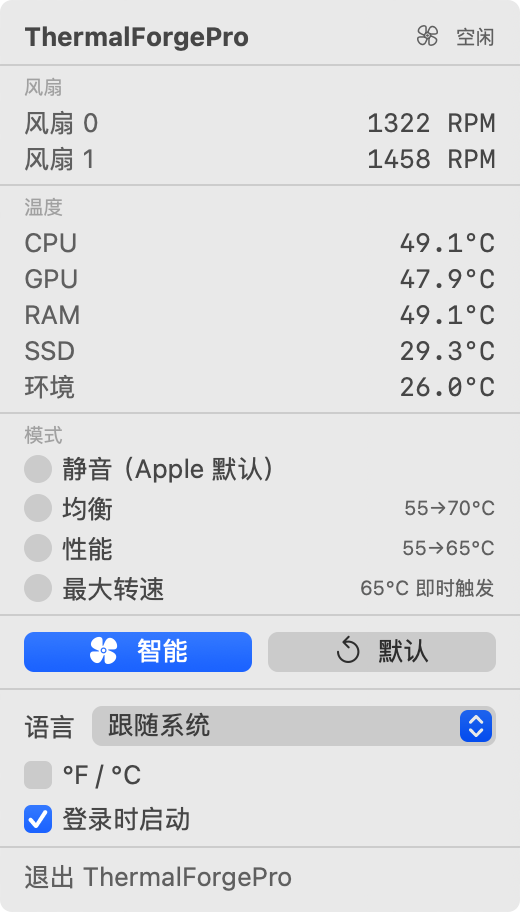
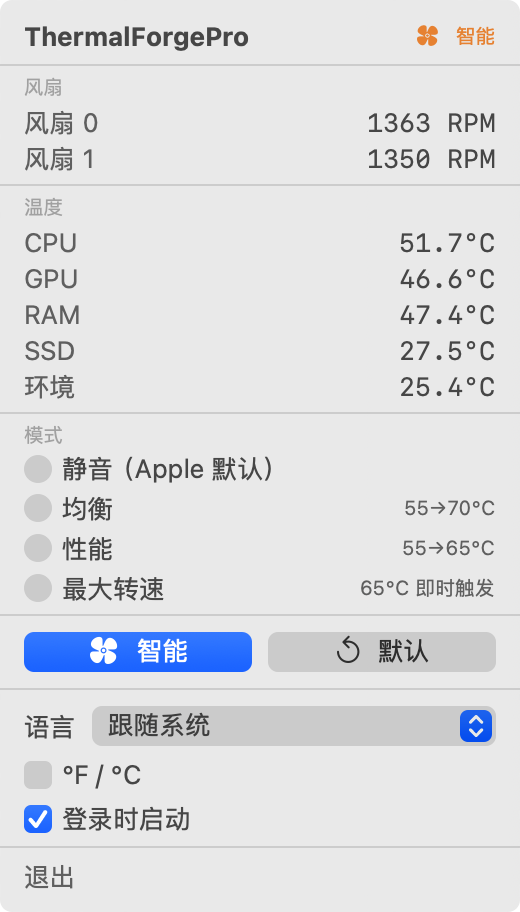
fix: shorten the quit action in every GUI language

diff --git a/Sources/ThermalForgeProApp/MenuBarView.swift b/Sources/ThermalForgeProApp/MenuBarView.swift
@@ -193,7 +193,7 @@ struct MenuBarView: View {
             Divider().padding(.vertical, 6)
 
             Button(action: { NSApp.terminate(nil) }) {
-                Text(language.text("Quit ThermalForgePro"))
+                Text(language.text("Quit"))
             }
             .buttonStyle(.plain)
             .foregroundStyle(.secondary)

diff --git a/CHANGELOG.md b/CHANGELOG.md
@@ -2,9 +2,10 @@
 
 ## 0.2.3.13
 
-- Separate Quit ThermalForgePro from the preference controls with a full-width
+- Separate Quit from the preference controls with a full-width
   divider and equal 6 pt spacing above and below it. Preserve automatic popup
   height, menu interactions and the centered temperature label.
+- Shorten the footer action to Quit in English and 退出 in both Chinese variants.
 
 ## 0.2.3.12
 
